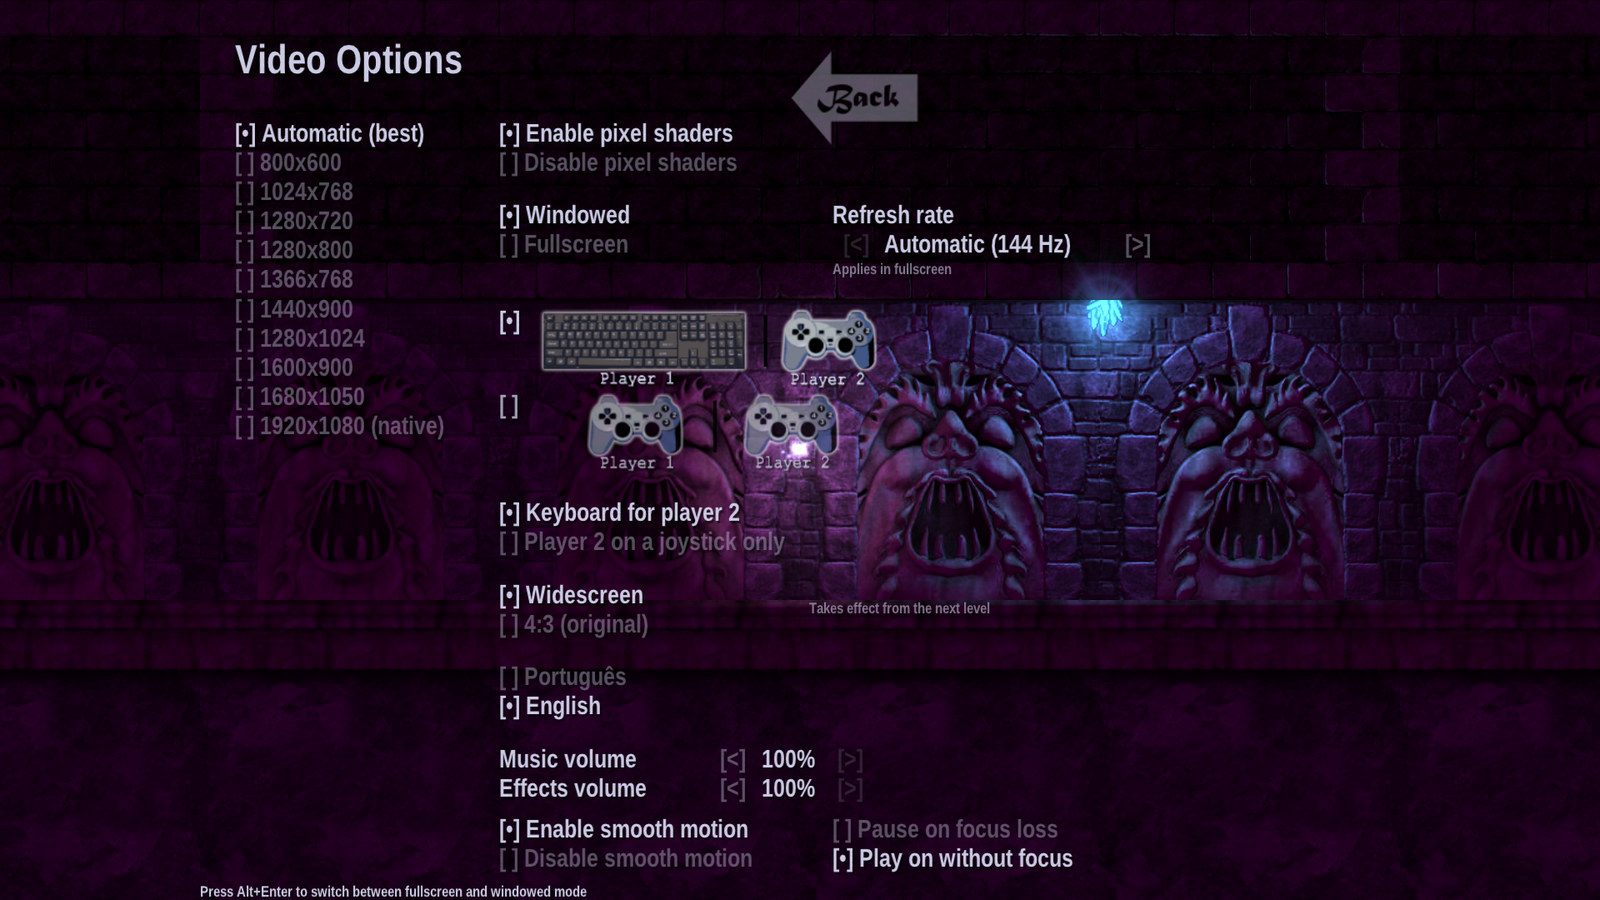
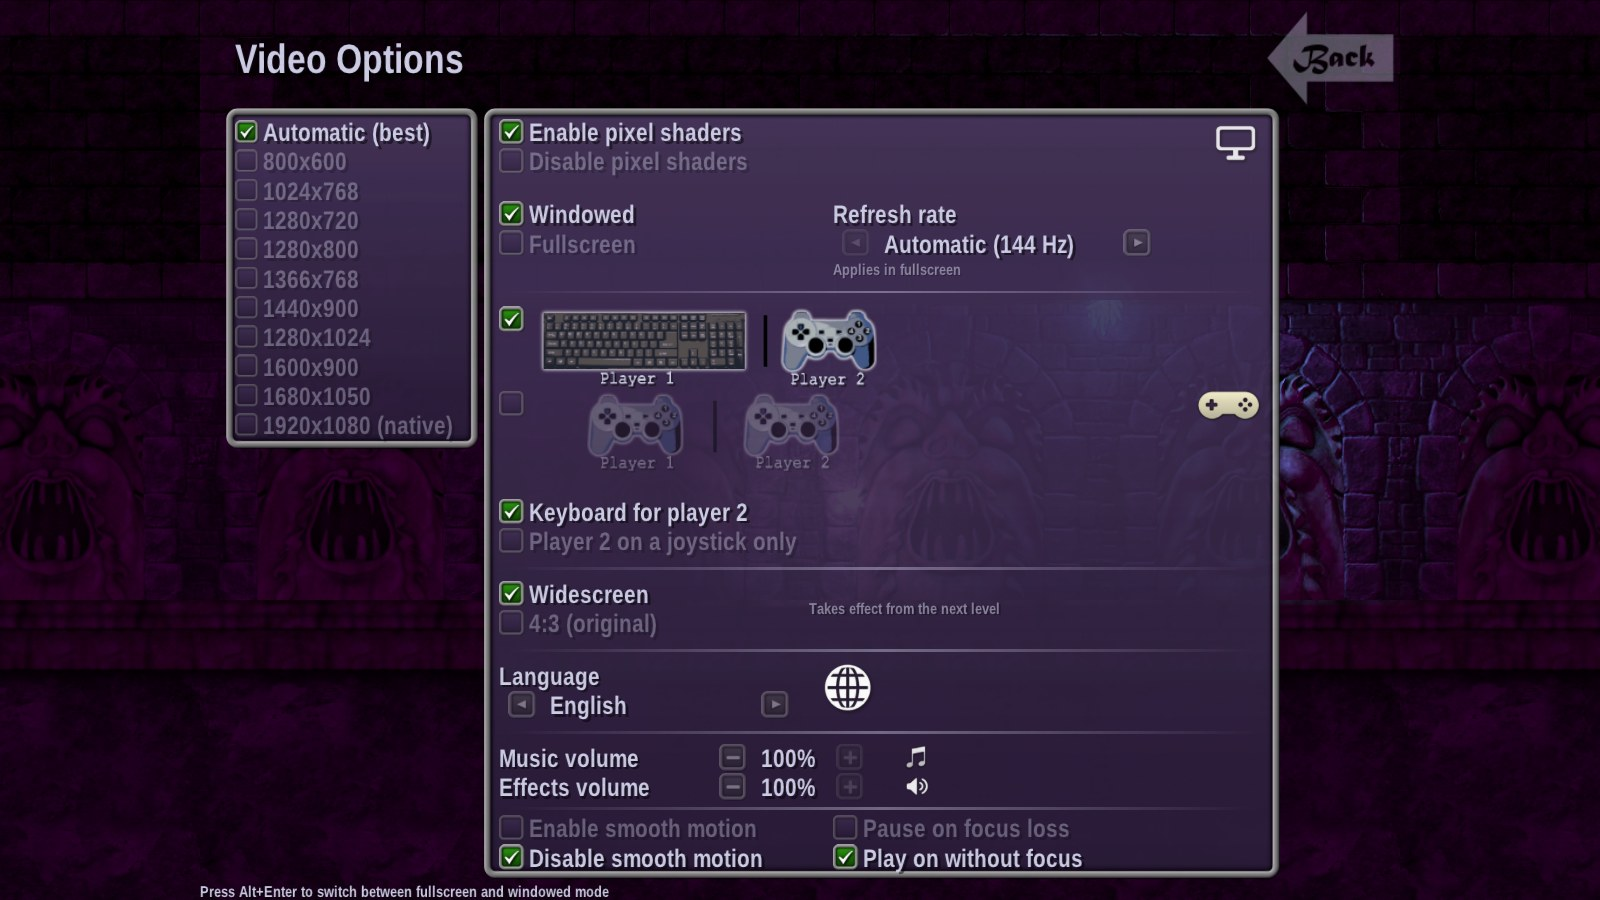
Penumbra: the README and the download page describe release 1.0.2; new screenshots of the menu and the options screen
Release 1.0.2 is public (Penumbra-Windows.zip, Penumbra-Android.apk,
Penumbra-Linux.tar.gz, Penumbra-macOS.zip, Penumbra-iOS.ipa and SHA256SUMS.txt,
all built from 516f869 and checked against the published checksums), so the text
that waited for it now says what it holds:
- The README's language row says the language follows the system and can be
  changed from a globe button on the main menu, and no longer "since 1.0.1".
- The platform table and its note say that the Android version has been played
  on a real phone (one phone), where it said the emulator only; the Windows row's
  count of automated checks is over 20,000 (22109 on Linux; the Windows CI run
  passes all 17 suites).
- The download page's language line names the eleven languages, and its Android
  note says what was tested, in both languages.
- docs/images/menu.jpg (also the download page's main picture) shows the menu
  with the language button, and docs/images/options.jpg the framed options screen.

diff --git a/site/index.html b/site/index.html
@@ -561,7 +561,7 @@ footer p { margin: 6px 0; }
             <article class="card android" aria-labelledby="and-title">
                 <h3 id="and-title"><svg viewBox="0 0 48 48" aria-hidden="true" focusable="false"><rect x="12" y="3" width="24" height="42" rx="5" fill="none" stroke="currentColor" stroke-width="3.5"/><path d="M21 39h6" stroke="currentColor" stroke-width="3.5" stroke-linecap="round"/></svg><span data-i18n="and.title">Android phone or tablet</span></h3>
                 <p class="req" data-i18n="and.req"><strong>You need:</strong> Android 8 or newer with Vulkan 1.2 graphics &ndash; most phones from about 2020 on.</p>
-                <p class="new-note" data-i18n="and.new"><strong>New:</strong> the Android version is new and has not been tested on real phones yet.</p>
+                <p class="new-note" data-i18n="and.new"><strong>Tested:</strong> the Android version has been played on a real phone by the person who made it, and tested automatically on an Android emulator. Other phones may behave differently.</p>
                 <a class="dl dl-android" href="https://github.com/IvanCvetanovic/Penumbra-and-the-Castle-of-Shadows-Enhanced/releases/latest/download/Penumbra-Android.apk">
                     <svg class="ico" viewBox="0 0 48 48" aria-hidden="true" focusable="false"><path d="M24 6v24m-9-9 9 9 9-9M8 40h32" fill="none" stroke="currentColor" stroke-width="4" stroke-linecap="round" stroke-linejoin="round"/></svg>
                     <span class="label" data-i18n="dl.and">Download for Android</span>
@@ -786,7 +786,7 @@ footer p { margin: 6px 0; }
             <li><svg viewBox="0 0 32 32" aria-hidden="true" focusable="false"><rect x="2" y="7" width="28" height="16" rx="3" fill="none" stroke="currentColor" stroke-width="2.5"/><path d="M11 28h10M16 23v5" stroke="currentColor" stroke-width="2.5" stroke-linecap="round"/></svg><span data-i18n="feat.wide">Widescreen, at any resolution</span></li>
             <li><svg viewBox="0 0 32 32" aria-hidden="true" focusable="false"><path d="M9 9h14a7 7 0 0 1 6.8 8.6l-1.4 6A3.5 3.5 0 0 1 22 25l-3-4h-6l-3 4a3.5 3.5 0 0 1-6.4-1.4l-1.4-6A7 7 0 0 1 9 9z" fill="none" stroke="currentColor" stroke-width="2.5" stroke-linejoin="round"/><path d="M10 13v6M7 16h6" stroke="currentColor" stroke-width="2.5" stroke-linecap="round"/><circle cx="21.5" cy="14" r="1.6" fill="currentColor"/><circle cx="24.5" cy="17.5" r="1.6" fill="currentColor"/></svg><span data-i18n="feat.pads">Gamepads, and a second player on the same keyboard</span></li>
             <li><svg viewBox="0 0 32 32" aria-hidden="true" focusable="false"><rect x="9" y="2" width="14" height="28" rx="3" fill="none" stroke="currentColor" stroke-width="2.5"/><circle cx="16" cy="16" r="3.5" fill="none" stroke="currentColor" stroke-width="2.5"/></svg><span data-i18n="feat.touch">Touch controls on phones and tablets</span></li>
-            <li><svg viewBox="0 0 32 32" aria-hidden="true" focusable="false"><path d="M4 6h14v10H11l-5 4v-4H4z" fill="none" stroke="currentColor" stroke-width="2.5" stroke-linejoin="round"/><path d="M21 12h7v10h-2v4l-5-4h-7v-3" fill="none" stroke="currentColor" stroke-width="2.5" stroke-linejoin="round"/></svg><span data-i18n="feat.lang">English and Portuguese</span></li>
+            <li><svg viewBox="0 0 32 32" aria-hidden="true" focusable="false"><path d="M4 6h14v10H11l-5 4v-4H4z" fill="none" stroke="currentColor" stroke-width="2.5" stroke-linejoin="round"/><path d="M21 12h7v10h-2v4l-5-4h-7v-3" fill="none" stroke="currentColor" stroke-width="2.5" stroke-linejoin="round"/></svg><span data-i18n="feat.lang">Eleven languages: English, Portuguese, Spanish, French, German, Italian, Russian, Turkish, Ukrainian, Japanese and Arabic</span></li>
         </ul>
     </section>
 
@@ -904,7 +904,7 @@ footer p { margin: 6px 0; }
         "fun": "Divirta-se!",
         "and.title": "Celular ou tablet Android",
         "and.req": "<strong>Você precisa de:</strong> Android 8 ou mais recente, com gráficos Vulkan 1.2 &ndash; a maioria dos celulares de 2020 para cá.",
-        "and.new": "<strong>Novidade:</strong> a versão para Android é nova e ainda não foi testada em celulares de verdade.",
+        "and.new": "<strong>Testado:</strong> a versão para Android foi jogada num celular de verdade por quem a criou, e testada automaticamente num emulador de Android. Outros celulares podem se comportar de outro jeito.",
         "and.s1": "<strong>Baixe no próprio celular</strong> e abra o <em>Penumbra-Android.apk</em> pela notificação ou pela pasta <em>Downloads</em>. Se o Chrome mostrar um aviso sobre o arquivo, toque em <strong>Baixar mesmo assim</strong> (Download anyway).",
         "and.s2": "<strong>Permita a instalação.</strong> O Android vai pedir para deixar o navegador instalar apps desconhecidos: toque em <strong>Configurações</strong>, ative <strong>Permitir desta fonte</strong> e volte.",
         "and.samsung": "<strong>Para um adulto, em celulares Samsung mais novos:</strong> se o celular bloquear a instalação, abra <strong>Configurações</strong>, depois <strong>Segurança e privacidade</strong> e depois <strong>Bloqueador automático</strong> (Auto Blocker). Desative, instale o jogo e depois ative o Bloqueador automático de novo.",
@@ -994,7 +994,7 @@ footer p { margin: 6px 0; }
         "feat.wide": "Tela widescreen, em qualquer resolução",
         "feat.pads": "Controles (gamepads) e um segundo jogador no mesmo teclado",
         "feat.touch": "Controles de toque em celulares e tablets",
-        "feat.lang": "Inglês e português",
+        "feat.lang": "Onze idiomas: inglês, português, espanhol, francês, alemão, italiano, russo, turco, ucraniano, japonês e árabe",
         "controls.title": "Controles",
         "c.kb": "Teclado",
         "c.pad": "Controle",

diff --git a/README.md b/README.md
@@ -52,7 +52,7 @@ published with André Santee's explicit permission.
 |---|---|
 | **Display** | Widescreen at any resolution; the best resolution and refresh rate chosen automatically, or by hand; smooth motion on fast monitors |
 | **Controls** | Modern gamepads, a keyboard second player, on-screen touch controls, a pause |
-| **Languages** | English, German, Spanish, French, Italian, Portuguese, Russian, Turkish, Ukrainian, Japanese and Arabic, switchable in game (since 1.0.1) |
+| **Languages** | English, German, Spanish, French, Italian, Portuguese, Russian, Turkish, Ukrainian, Japanese and Arabic, following your system's language by itself, and switchable in game from a globe button on the main menu |
 | **Platforms** | Downloads for Windows, Android, Mac and Linux, and an experimental one for iPhone and iPad |
 | **Fixes** | Bugs of the original fixed, and its rendering matched more closely |
 
@@ -62,15 +62,15 @@ Every change is listed with what the original did in [`docs/enhancements.md`](do
 
 | Platform | Status | What was checked | Download |
 |---|---|---|---|
-| Windows | ![playtested](https://img.shields.io/badge/-playtested-2ea44f) | Played through by a person; over 10,000 automated checks | [Penumbra-Windows.zip](https://github.com/IvanCvetanovic/Penumbra-and-the-Castle-of-Shadows-Enhanced/releases/latest/download/Penumbra-Windows.zip) |
+| Windows | ![playtested](https://img.shields.io/badge/-playtested-2ea44f) | Played through by a person; over 20,000 automated checks | [Penumbra-Windows.zip](https://github.com/IvanCvetanovic/Penumbra-and-the-Castle-of-Shadows-Enhanced/releases/latest/download/Penumbra-Windows.zip) |
 | Linux | ![tested](https://img.shields.io/badge/-tested-1f6feb) | All 17 test suites pass in the release build; the download itself, unpacked read-only, plays level 1 on a software Vulkan driver; not played by a person | [Penumbra-Linux.tar.gz](https://github.com/IvanCvetanovic/Penumbra-and-the-Castle-of-Shadows-Enhanced/releases/latest/download/Penumbra-Linux.tar.gz) |
-| Android | ![emulator](https://img.shields.io/badge/-emulator%20only-d29922) | Scripted tests on an emulator; not run on a real phone | [Penumbra-Android.apk](https://github.com/IvanCvetanovic/Penumbra-and-the-Castle-of-Shadows-Enhanced/releases/latest/download/Penumbra-Android.apk) |
+| Android | ![playtested](https://img.shields.io/badge/-playtested-2ea44f) | Played through on a real phone by a person; scripted tests on an emulator | [Penumbra-Android.apk](https://github.com/IvanCvetanovic/Penumbra-and-the-Castle-of-Shadows-Enhanced/releases/latest/download/Penumbra-Android.apk) |
 | macOS | ![CI](https://img.shields.io/badge/-CI%20only-d29922) | Tests pass on GitHub Actions; the download runs level 1 on GitHub's Apple silicon Macs, and its Intel half there under Rosetta; not played; never run on a real Intel Mac; not notarised | [Penumbra-macOS.zip](https://github.com/IvanCvetanovic/Penumbra-and-the-Castle-of-Shadows-Enhanced/releases/latest/download/Penumbra-macOS.zip) |
 | iOS | ![builds](https://img.shields.io/badge/-builds%20only-8b949e) | Compiles; never run on any iPhone or iPad | Experimental: [Penumbra-iOS.ipa](https://github.com/IvanCvetanovic/Penumbra-and-the-Castle-of-Shadows-Enhanced/releases/latest/download/Penumbra-iOS.ipa), for [sideloading](docs/playing.md#iphone-and-ipad-experimental) |
 
 > [!IMPORTANT]
-> Only the Windows version has been played by a person. Linux, Android and macOS are verified by
-> automated tests only; the iPhone/iPad version has never run on an iPhone or iPad.
+> The Windows version, and the Android version on one real phone, have been played by a person. Linux and
+> macOS are verified by automated tests only; the iPhone/iPad version has never run on an iPhone or iPad.
 
 ## Build from source
 
